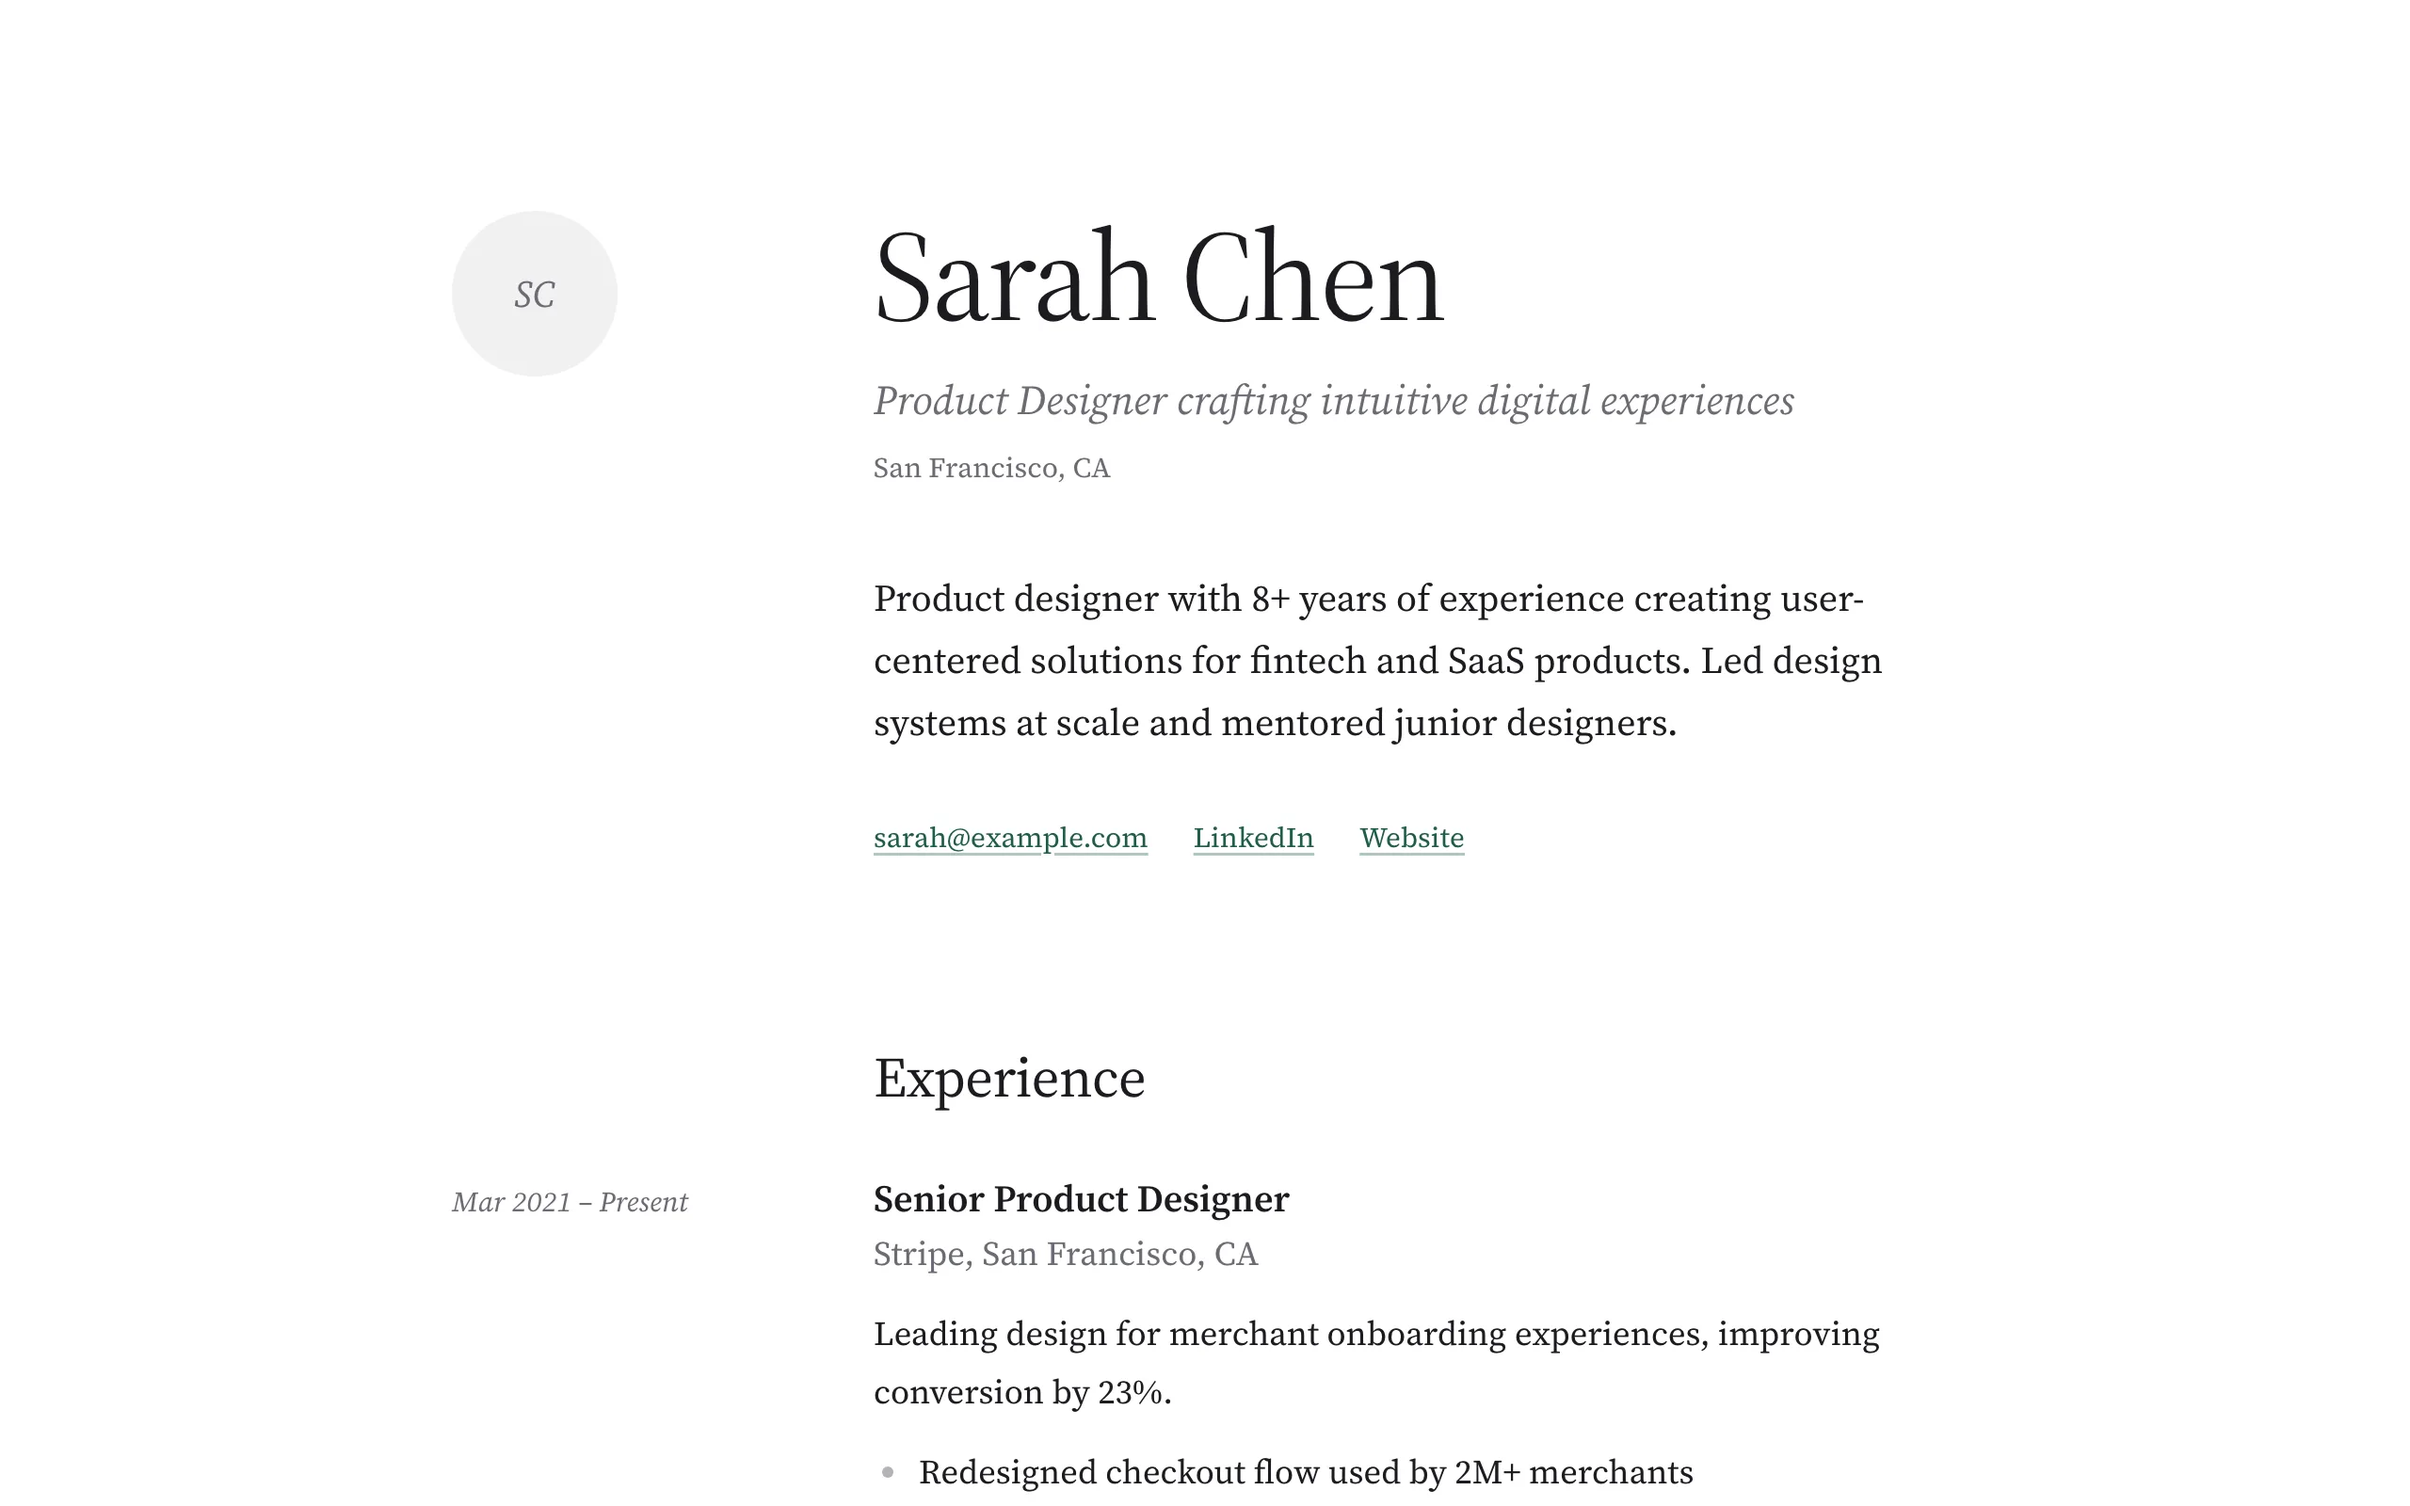
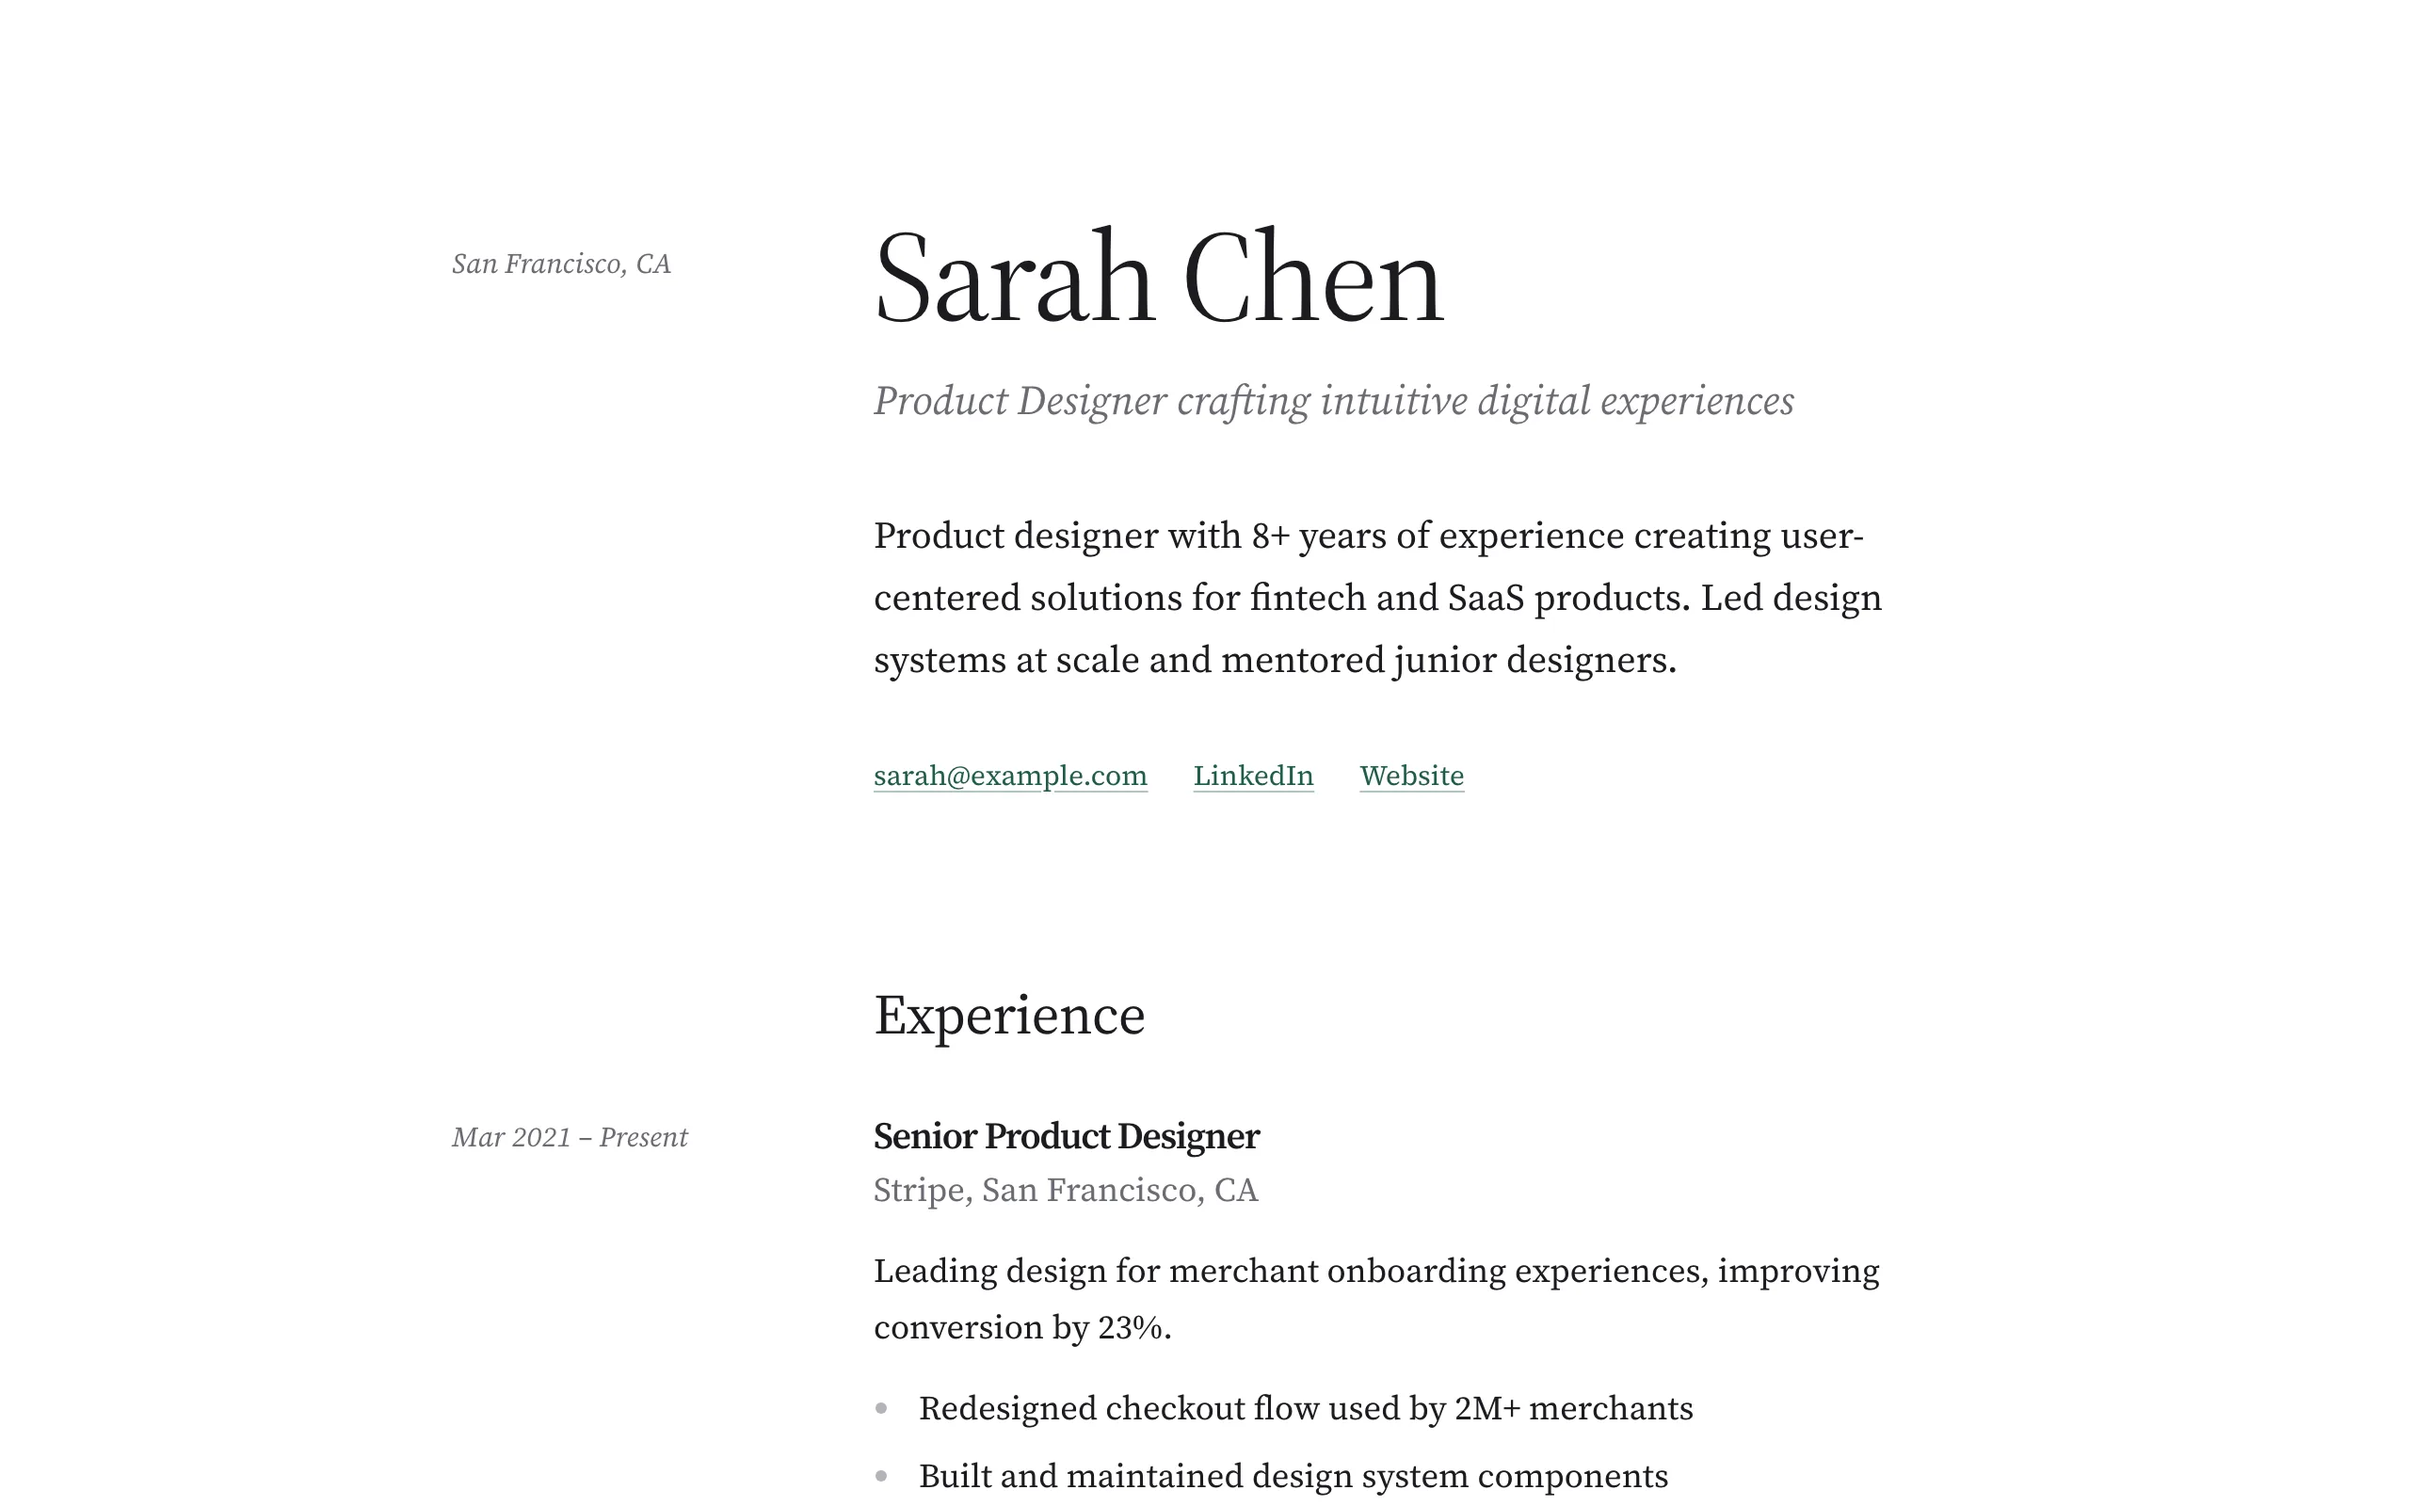
style(templates): drop initials circle from minimalist editorial
The grey initials circle was filler: resumes carry no photo. Location now hangs in the date margin on wide screens so the header keeps the marginal-note rhythm; a real avatar still renders when present.

diff --git a/components/templates/MinimalistEditorial.tsx b/components/templates/MinimalistEditorial.tsx
@@ -1,7 +1,7 @@
 import type React from "react";
 import { ShareBar } from "@/components/ShareBar";
 import { getContactLinks } from "@/lib/templates/contact-links";
-import { formatDateSpan, formatShortDate, getInitials } from "@/lib/templates/helpers";
+import { formatDateSpan, formatShortDate } from "@/lib/templates/helpers";
 import type { TemplateProps } from "@/lib/types/template";
 import { TemplateFontLinks } from "./shared/TemplateFontLinks";
 
@@ -73,26 +73,28 @@ export const MinimalistEditorial: React.FC<TemplateProps> = ({ content, profile 
       <div className="font-serif-me min-h-screen bg-white text-[#1B1B1F] text-[1.0625rem] md:text-lg leading-[1.7] selection:bg-[#1F5C4A] selection:text-white overflow-x-hidden">
         <main className="mx-auto max-w-[40rem] lg:max-w-[54rem] px-5 sm:px-8 pt-16 md:pt-28 pb-24">
           <header className="grid grid-cols-1 lg:grid-cols-[11rem_minmax(0,40rem)] lg:gap-x-12">
-            <div className="mb-8 lg:mb-0">
-              {profile.avatar_url ? (
-                <img
-                  src={profile.avatar_url}
-                  alt=""
-                  width={88}
-                  height={88}
-                  className="w-[4.5rem] h-[4.5rem] lg:w-[5.5rem] lg:h-[5.5rem] rounded-full object-cover grayscale-[15%]"
-                />
-              ) : (
-                <div
-                  aria-hidden="true"
-                  className="w-[4.5rem] h-[4.5rem] lg:w-[5.5rem] lg:h-[5.5rem] rounded-full bg-[#F1F1F2] text-[#6B6B73] flex items-center justify-center text-xl italic"
-                >
-                  {getInitials(full_name)}
-                </div>
-              )}
-            </div>
+            {(profile.avatar_url || contact.location) && (
+              <div>
+                {profile.avatar_url && (
+                  <img
+                    src={profile.avatar_url}
+                    alt=""
+                    width={88}
+                    height={88}
+                    className="mb-8 lg:mb-5 w-[4.5rem] h-[4.5rem] lg:w-[5.5rem] lg:h-[5.5rem] rounded-full object-cover grayscale-[15%]"
+                  />
+                )}
+                {contact.location && (
+                  <p
+                    className={`hidden lg:block text-[0.9375rem] italic leading-snug text-[#6B6B73] break-words ${profile.avatar_url ? "" : "lg:pt-[1.15rem]"}`}
+                  >
+                    {contact.location}
+                  </p>
+                )}
+              </div>
+            )}
 
-            <div className="min-w-0">
+            <div className="min-w-0 lg:col-start-2 lg:row-start-1">
               <h1 className="text-[clamp(2.5rem,7vw,4.25rem)] font-normal leading-[1.02] tracking-[-0.02em] break-words [text-wrap:balance]">
                 {full_name}
               </h1>
@@ -102,7 +104,7 @@ export const MinimalistEditorial: React.FC<TemplateProps> = ({ content, profile 
                 </p>
               )}
               {contact.location && (
-                <p className="mt-2 text-[0.9375rem] text-[#6B6B73]">{contact.location}</p>
+                <p className="mt-2 text-[0.9375rem] text-[#6B6B73] lg:hidden">{contact.location}</p>
               )}
 
               {summary && (
